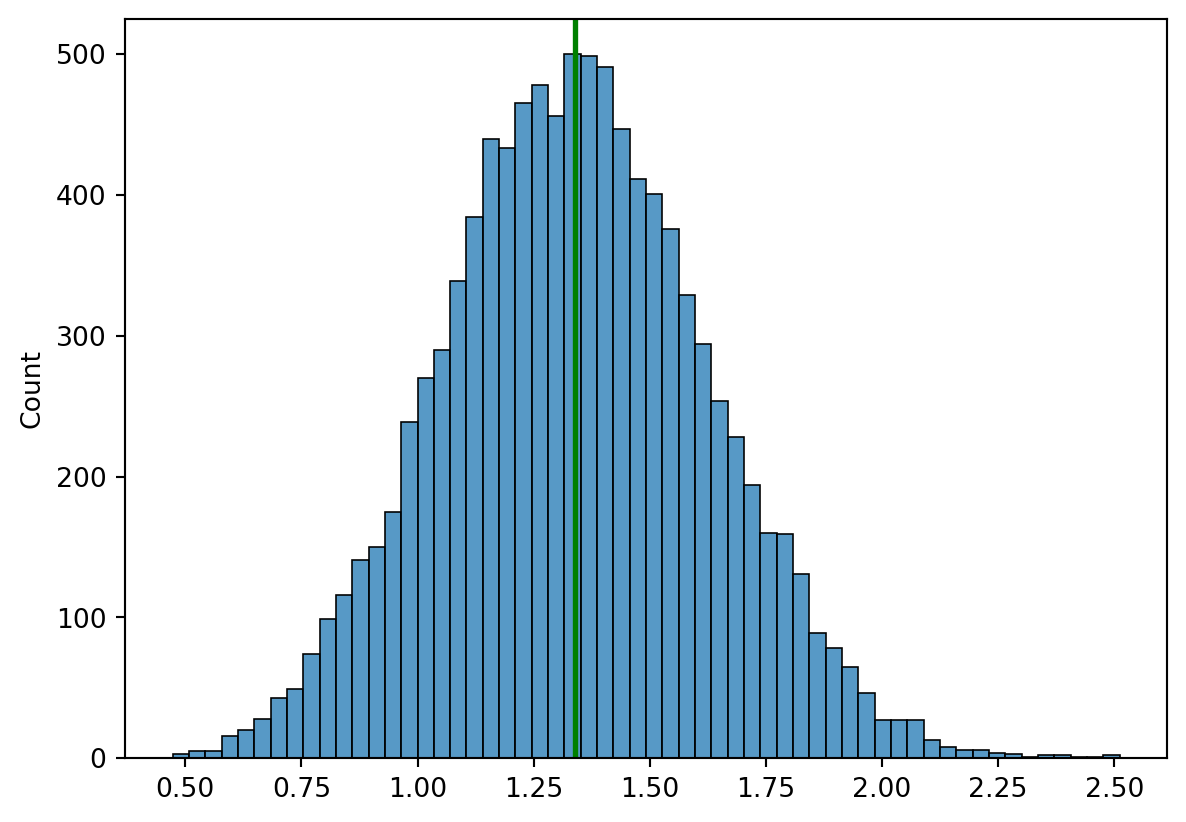
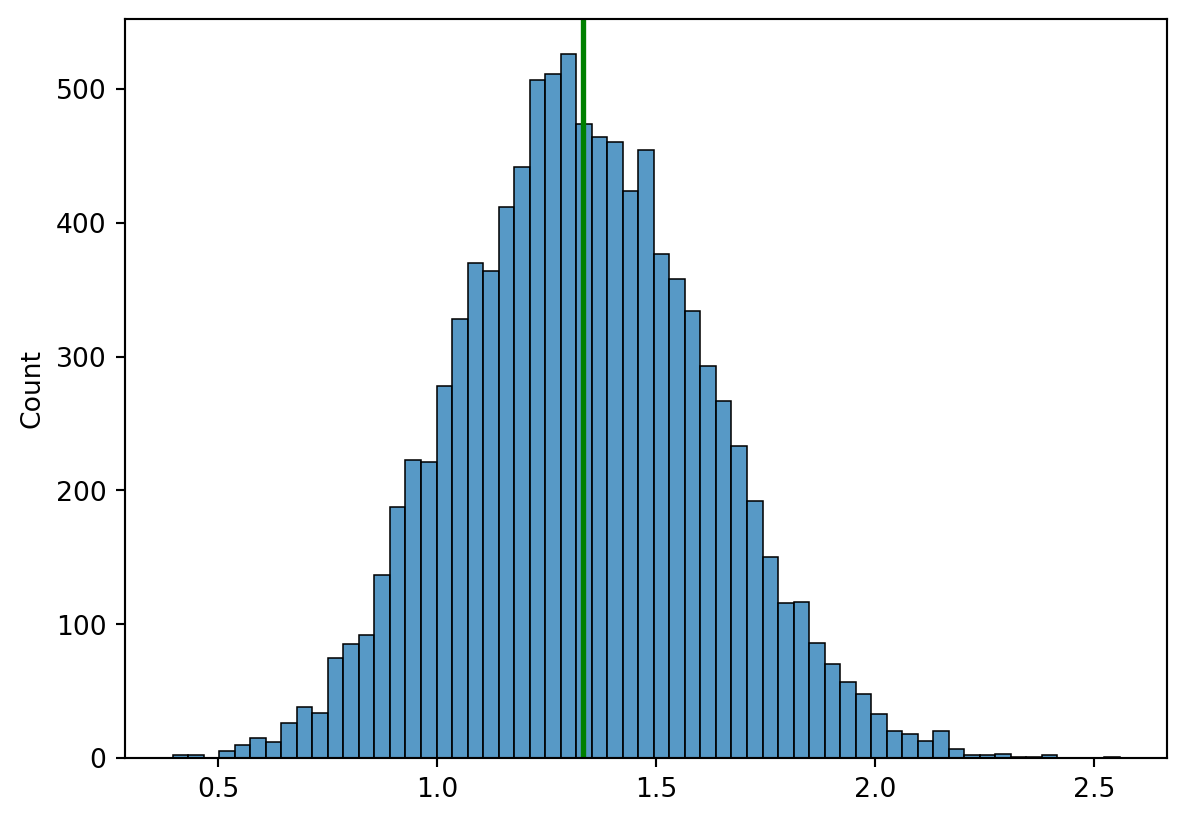
hw5

diff --git a/docs/posts/hw5/index.html b/docs/posts/hw5/index.html
@@ -195,7 +195,7 @@ pre > code.sourceCode > span > a:first-child::before { text-decoration: underlin
 
 <section id="q1.-균일분포-3-7에서-20개의-표본-뽑기-10000개-사용" class="level3">
 <h3 class="anchored" data-anchor-id="q1.-균일분포-3-7에서-20개의-표본-뽑기-10000개-사용">Q1. # 균일분포 (3, 7)에서 20개의 표본 뽑기 (10000개 사용)</h3>
-<div id="7dd1a40f" class="cell" data-execution_count="1">
+<div id="2f5288c4" class="cell" data-execution_count="1">
 <div class="sourceCode cell-code" id="cb1"><pre class="sourceCode python code-with-copy"><code class="sourceCode python"><span id="cb1-1"><a href="#cb1-1" aria-hidden="true" tabindex="-1"></a><span class="im">import</span> numpy <span class="im">as</span> np</span>
 <span id="cb1-2"><a href="#cb1-2" aria-hidden="true" tabindex="-1"></a><span class="im">import</span> matplotlib.pyplot <span class="im">as</span> plt</span>
 <span id="cb1-3"><a href="#cb1-3" aria-hidden="true" tabindex="-1"></a><span class="im">import</span> seaborn <span class="im">as</span> sns</span>
@@ -203,32 +203,26 @@ pre > code.sourceCode > span > a:first-child::before { text-decoration: underlin
 <span id="cb1-5"><a href="#cb1-5" aria-hidden="true" tabindex="-1"></a></span>
 <span id="cb1-6"><a href="#cb1-6" aria-hidden="true" tabindex="-1"></a>x <span class="op">=</span> uniform.rvs(loc<span class="op">=</span><span class="dv">3</span>, scale<span class="op">=</span><span class="dv">4</span>, size<span class="op">=</span><span class="dv">20</span><span class="op">*</span><span class="dv">10000</span>).reshape(<span class="op">-</span><span class="dv">1</span>,<span class="dv">20</span>)</span>
 <span id="cb1-7"><a href="#cb1-7" aria-hidden="true" tabindex="-1"></a>x</span></code><button title="Copy to Clipboard" class="code-copy-button"><i class="bi"></i></button></pre></div>
-<div class="cell-output cell-output-display" data-execution_count="3">
-<pre><code>array([[6.89406636, 6.89251139, 4.58792761, ..., 6.59484514, 6.17457536,
-        5.89277154],
-       [6.71093393, 5.128036  , 5.54966523, ..., 6.66913527, 5.2198036 ,
-        3.64623106],
-       [5.18967158, 3.05532494, 5.80565646, ..., 5.8605061 , 4.35811335,
-        4.3093106 ],
+<div class="cell-output cell-output-display" data-execution_count="1">
+<pre><code>array([[5.47072584, 4.25411569, 5.08487914, ..., 6.90816282, 5.0888124 ,
+        3.48907393],
+       [5.46903757, 6.8892847 , 5.35590862, ..., 3.24906697, 5.51463388,
+        6.10799538],
+       [4.95959669, 3.04239132, 6.97681011, ..., 4.73582811, 6.50780201,
+        3.15977979],
        ...,
-       [6.10802224, 6.10370235, 4.8720008 , ..., 4.10940716, 5.65118134,
-        5.05513686],
-       [3.10157275, 4.44838817, 5.26333291, ..., 5.9237748 , 6.10311529,
-        3.09083469],
-       [6.96781872, 6.2192121 , 4.18465829, ..., 6.42668725, 5.38916413,
-        6.74742695]])</code></pre>
+       [6.02732873, 3.97745429, 4.05402356, ..., 5.31730024, 3.07032192,
+        3.38317704],
+       [3.763338  , 5.45393809, 6.51928928, ..., 6.60840044, 6.83475579,
+        4.81617092],
+       [5.68571741, 6.08774942, 3.97172105, ..., 4.51710289, 3.14220876,
+        5.72266615]])</code></pre>
 </div>
 </div>
 </section>
 <section id="q2.-n-1로-나눈-것을-s_2-으로-정의하고-모분산-위치에-녹색-막대-추가하기." class="level3">
 <h3 class="anchored" data-anchor-id="q2.-n-1로-나눈-것을-s_2-으로-정의하고-모분산-위치에-녹색-막대-추가하기.">Q2. n-1로 나눈 것을 s_2 으로 정의하고 모분산 위치에 녹색 막대 추가하기.</h3>
-<ul>
-<li><strong>X ~ N(2, 3^2)</strong></li>
-</ul>
-<ol type="1">
-<li><strong>P(X &lt; 3)</strong></li>
-</ol>
-<div id="ce17e723" class="cell" data-execution_count="2">
+<div id="db3035de" class="cell" data-execution_count="2">
 <div class="sourceCode cell-code" id="cb3"><pre class="sourceCode python code-with-copy"><code class="sourceCode python"><span id="cb3-1"><a href="#cb3-1" aria-hidden="true" tabindex="-1"></a>s_2 <span class="op">=</span> x.var(axis <span class="op">=</span> <span class="dv">1</span>, ddof <span class="op">=</span> <span class="dv">1</span>)</span>
 <span id="cb3-2"><a href="#cb3-2" aria-hidden="true" tabindex="-1"></a>s_2</span>
 <span id="cb3-3"><a href="#cb3-3" aria-hidden="true" tabindex="-1"></a></span>

diff --git a/docs/blog.html b/docs/blog.html
@@ -202,7 +202,7 @@ window.Quarto = {
 
 <div class="quarto-listing quarto-listing-container-default" id="listing-listing">
 <div class="list quarto-listing-default">
-<div class="quarto-post image-right" data-index="0" data-listing-date-sort="1722178800000" data-listing-file-modified-sort="1722293629585" data-listing-date-modified-sort="NaN" data-listing-reading-time-sort="1" data-listing-word-count-sort="64">
+<div class="quarto-post image-right" data-index="0" data-listing-date-sort="1722178800000" data-listing-file-modified-sort="1722297385850" data-listing-date-modified-sort="NaN" data-listing-reading-time-sort="1" data-listing-word-count-sort="57">
 <div class="thumbnail">
 <p><a href="./posts/hw5/index.html" class="no-external"></a></p><a href="./posts/hw5/index.html" class="no-external">
 <p class="card-img-top"><img src="posts\hw5\index_files\figure-html\cell-3-output-1.png"  class="thumbnail-image card-img"/></p>
@@ -218,7 +218,7 @@ window.Quarto = {
 <div class="listing-description">
 <a href="./posts/hw5/index.html" class="no-external">
 
-<div id="7dd1a40f" class="cell" data-execution_count="1">
+<div id="2f5288c4" class="cell" data-execution_count="1">
 <div class="sourceCode cell-code" id="cb1"><pre class="sourceCode python code-with-copy"><code class="sourceCode python"><span id="cb1-1"><span class="im">import</span> numpy <span class="im">as</span> np</span>
 <span id="cb1-2"><span class="im">import</span> matplotlib.pyplot <span class="im">as</span> plt</span>
 <span id="cb1-3"><span class="im">import</span> seaborn <span class="im">as</span> sns</span>
@@ -226,7 +226,7 @@ window.Quarto = {
 <span id="cb1-5"></span>
 <span id="cb1-6">x <span class="op">=</span> uniform.rvs(loc<span class="op">=</span><span class="dv">3</span>, scale<span class="op">=</span><span class="dv">4</span>, size<span class="op">=</span><span class="dv">20</span><span class="op">*</span><span class="dv">10000</span>).reshape(<span class="op">-</span><span class="dv">1</span>,<span class="dv">20</span>)</span>
 <span id="cb1-7">x</span></code></pre></div>
-<div class="cell-output cell-output-display" data-execution_count="3">
+<div class="cell-output cell-output-display" data-execution_count="1">
 <pre><code>…</code></pre></div></div></a>
 </div>
 </div>
